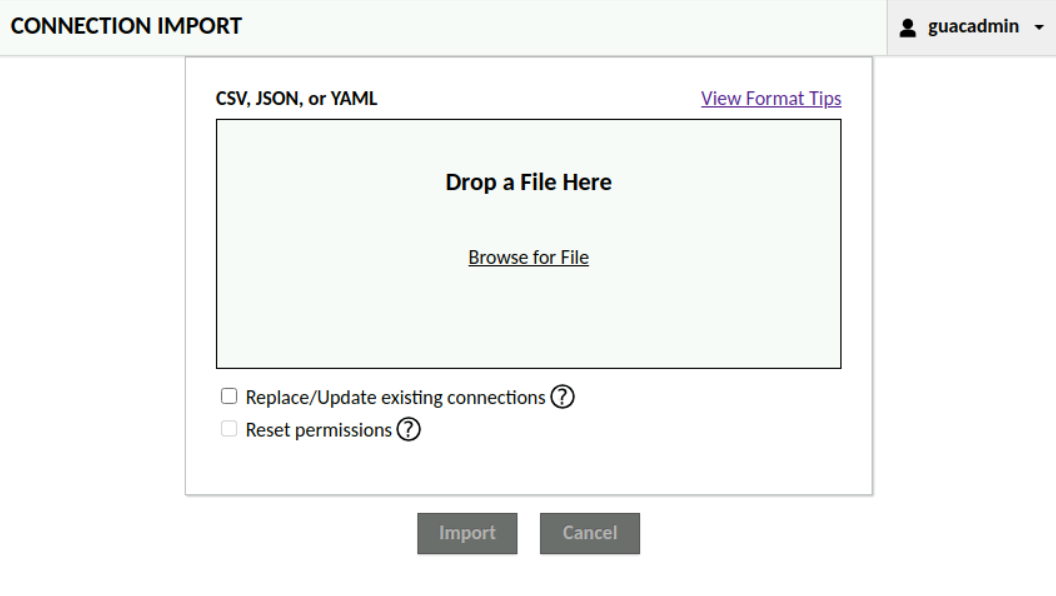
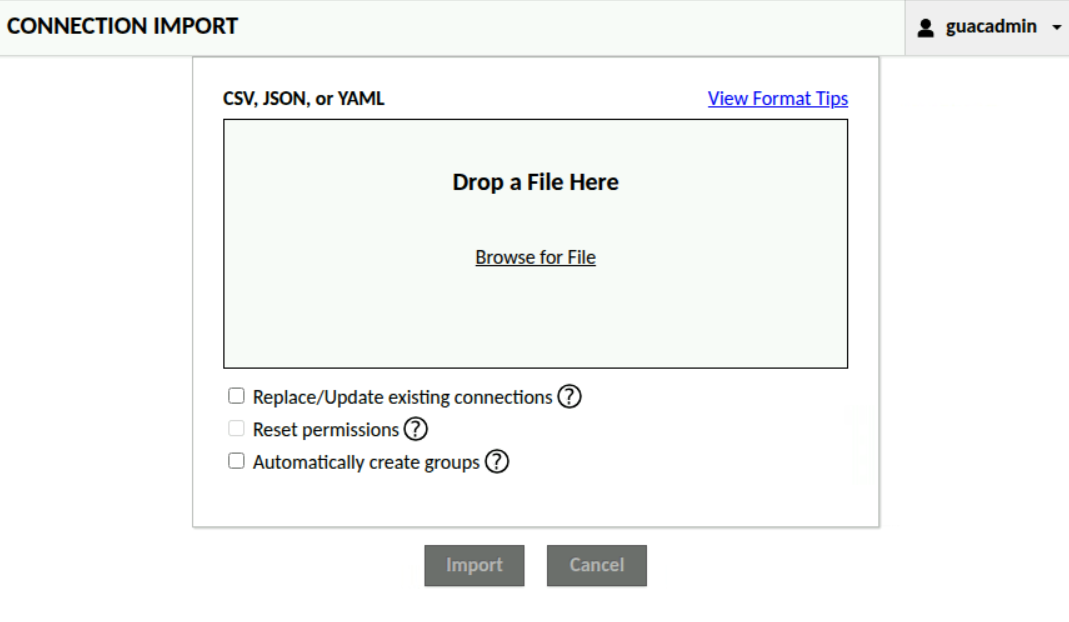
GUACAMOLE-2250: Clarify batch import docs for auto group creation.

diff --git a/src/batch-import.md b/src/batch-import.md
@@ -12,6 +12,32 @@ a list of connections to be imported.
 
 ![Batch Import Start](images/batch-import-start.png)
 
+Before importing, the following options are available:
+
+* **Replace/Update existing connections** - If checked, connections in the
+  import file that match the name and parent group of an existing connection
+  will replace that connection. If unchecked, such conflicts are reported as
+  errors.
+* **Reset permissions** - If checked, permissions for connections in the
+  import file are fully replaced with those specified in the file. If
+  unchecked, existing permissions are preserved and any permissions listed in
+  the file are added. This option is only available when
+  "Replace/Update existing connections" is checked.
+* **Automatically create groups** - If checked, any connection group paths
+  referenced by a connection's `group` field that do not already exist will
+  be created before the connections are imported, as will any users and user
+  groups listed in the file that do not already exist. Multi-level paths such as
+  `ROOT/Parent Group/Child Group` are created one level at a time, with each
+  parent group created before its children. If unchecked, every `group` path,
+  user, and user group referenced in the file must already exist; otherwise
+  the affected connection is reported as an error and is not imported. Connection
+  group paths are resolved only from the `group` field; a `parentIdentifier`
+  must still refer to an existing connection group.
+
+If group creation fails partway through an import, any groups that were
+already created remain in place and the import is aborted. Re-importing the
+same file is safe: existing groups are detected and skipped.
+
 (batch-import-success)=
 Success
 -----------------
@@ -39,10 +65,12 @@ Three file types are supported for connection import: CSV, JSON, and YAML.
 The same data may be specified by each file type. This must include the
 connection name and protocol. Optionally, a connection group location, a list
 of users and/or user groups to grant access, connection parameters, or connection
-protocols may also be specified. Any users or user groups that do not exist in
-the current data source will be automatically created. Note that any existing
-connection permissions will not be removed for updated connections, unless
-"Reset permissions" is checked.
+protocols may also be specified. Connection groups referenced by the `group`
+field, and any users or user groups listed for access grants, must already
+exist in the current data source unless "Automatically create groups" is
+checked on the import screen. Note that any existing connection permissions
+will not be removed for updated connections, unless "Reset permissions" is
+checked.
 
 This same file format information is available within the webapp, at the
 "View Format Tips" link.